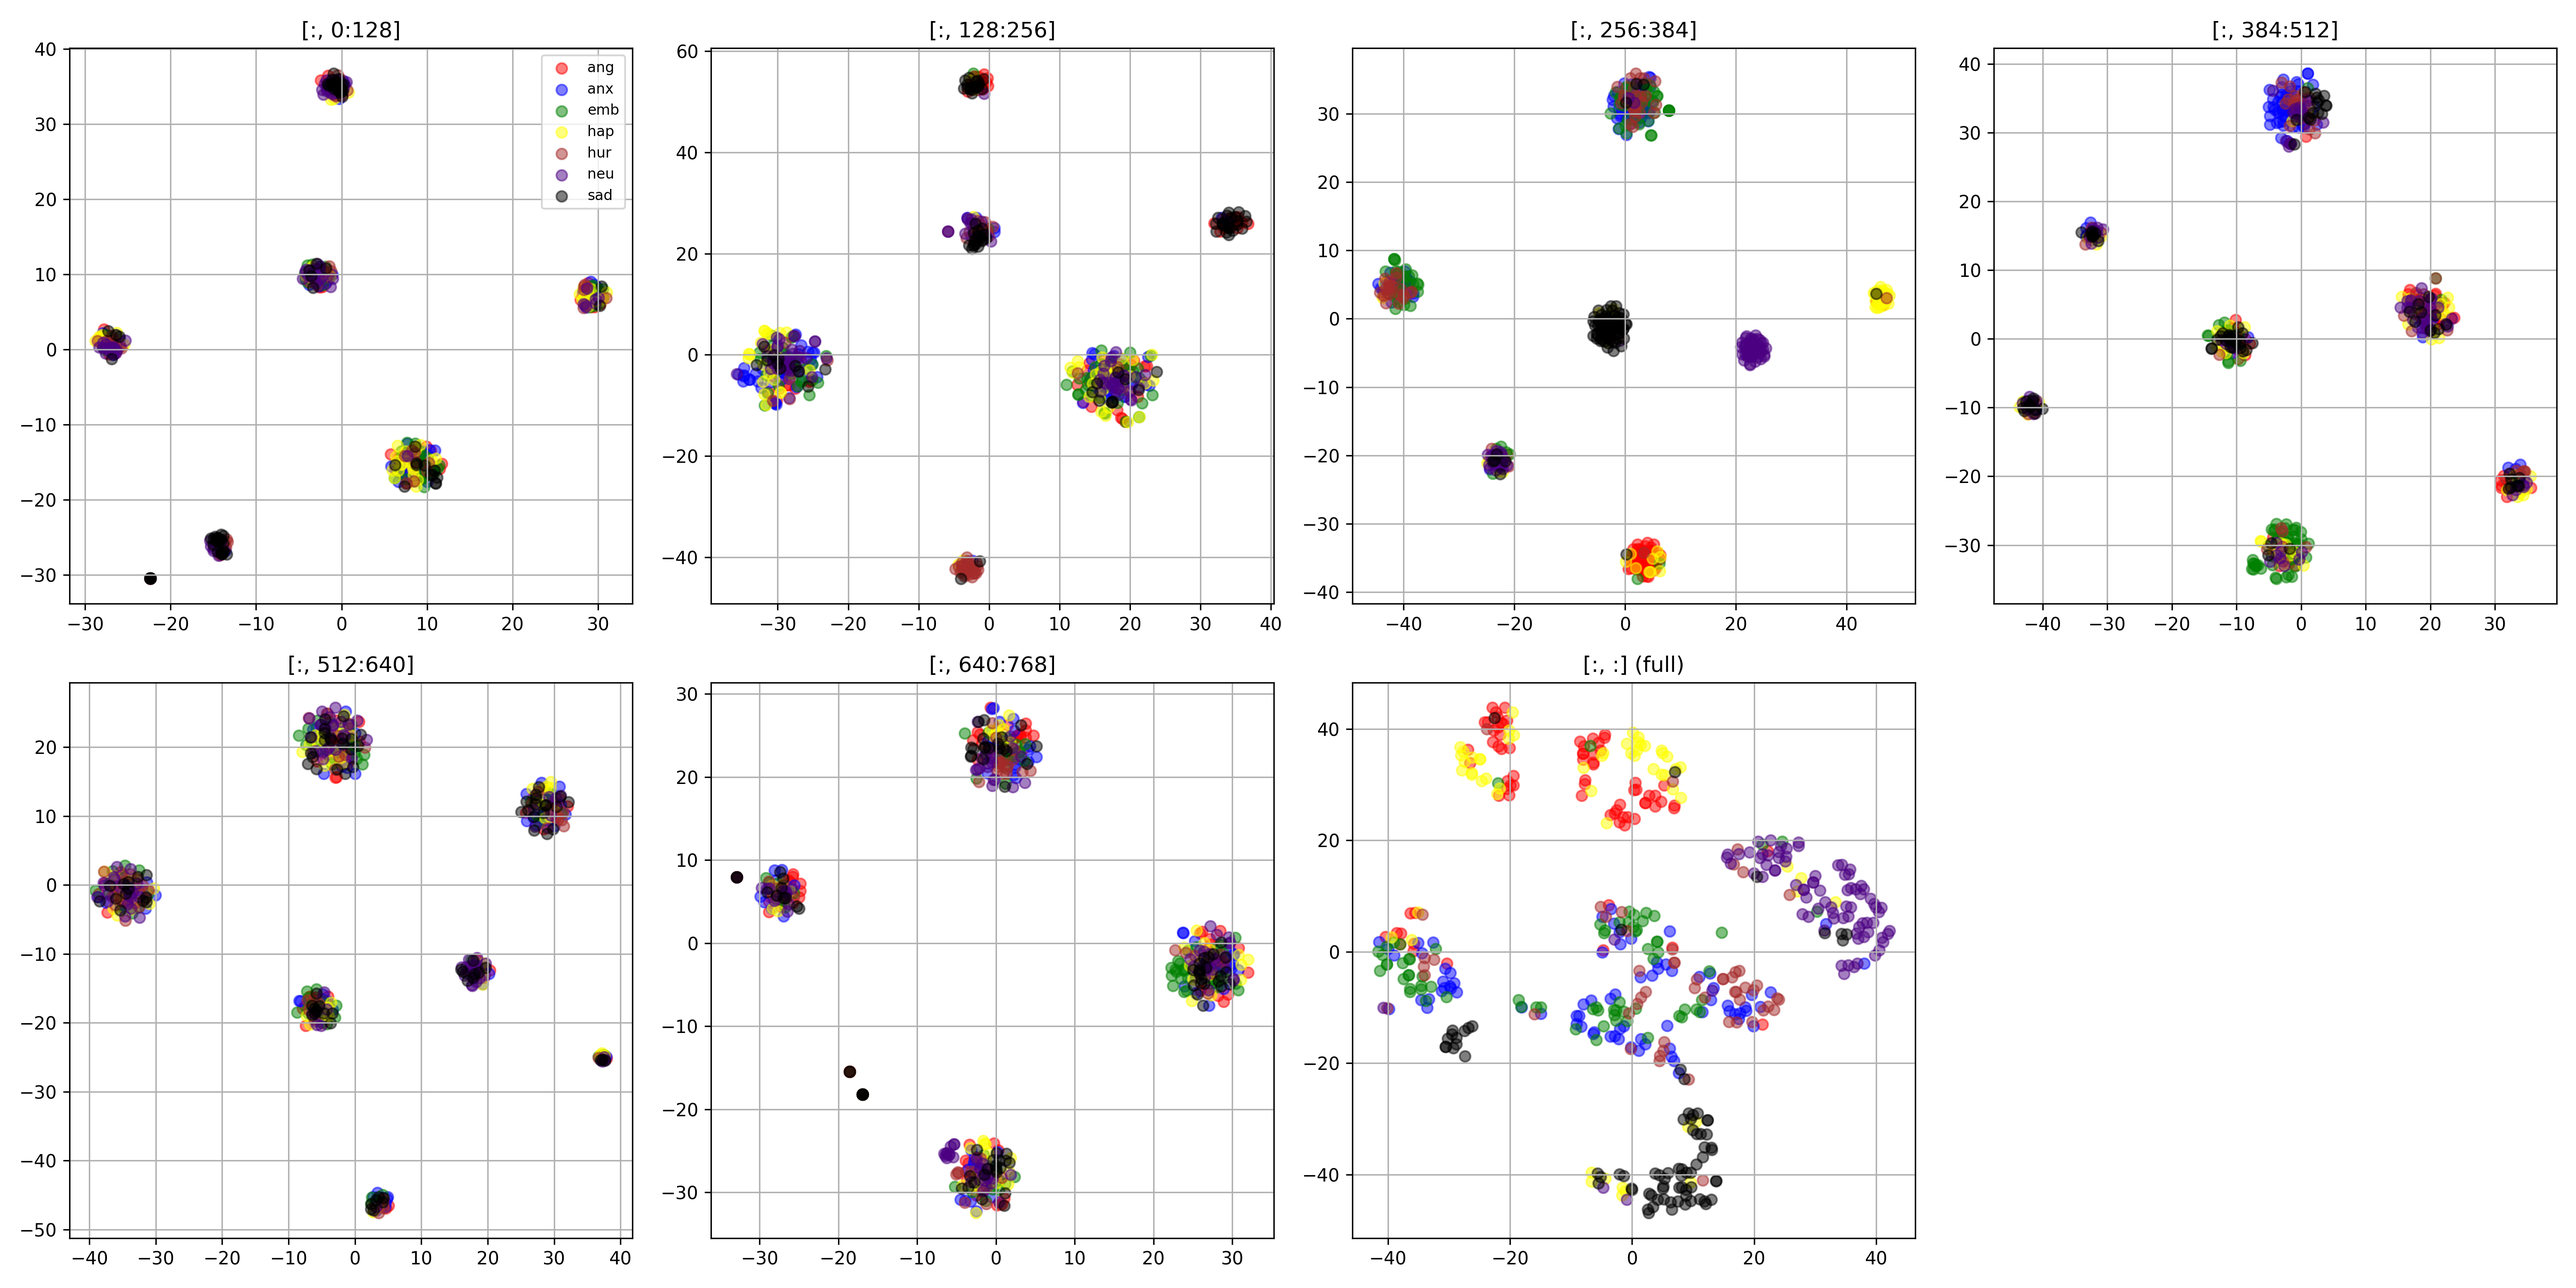
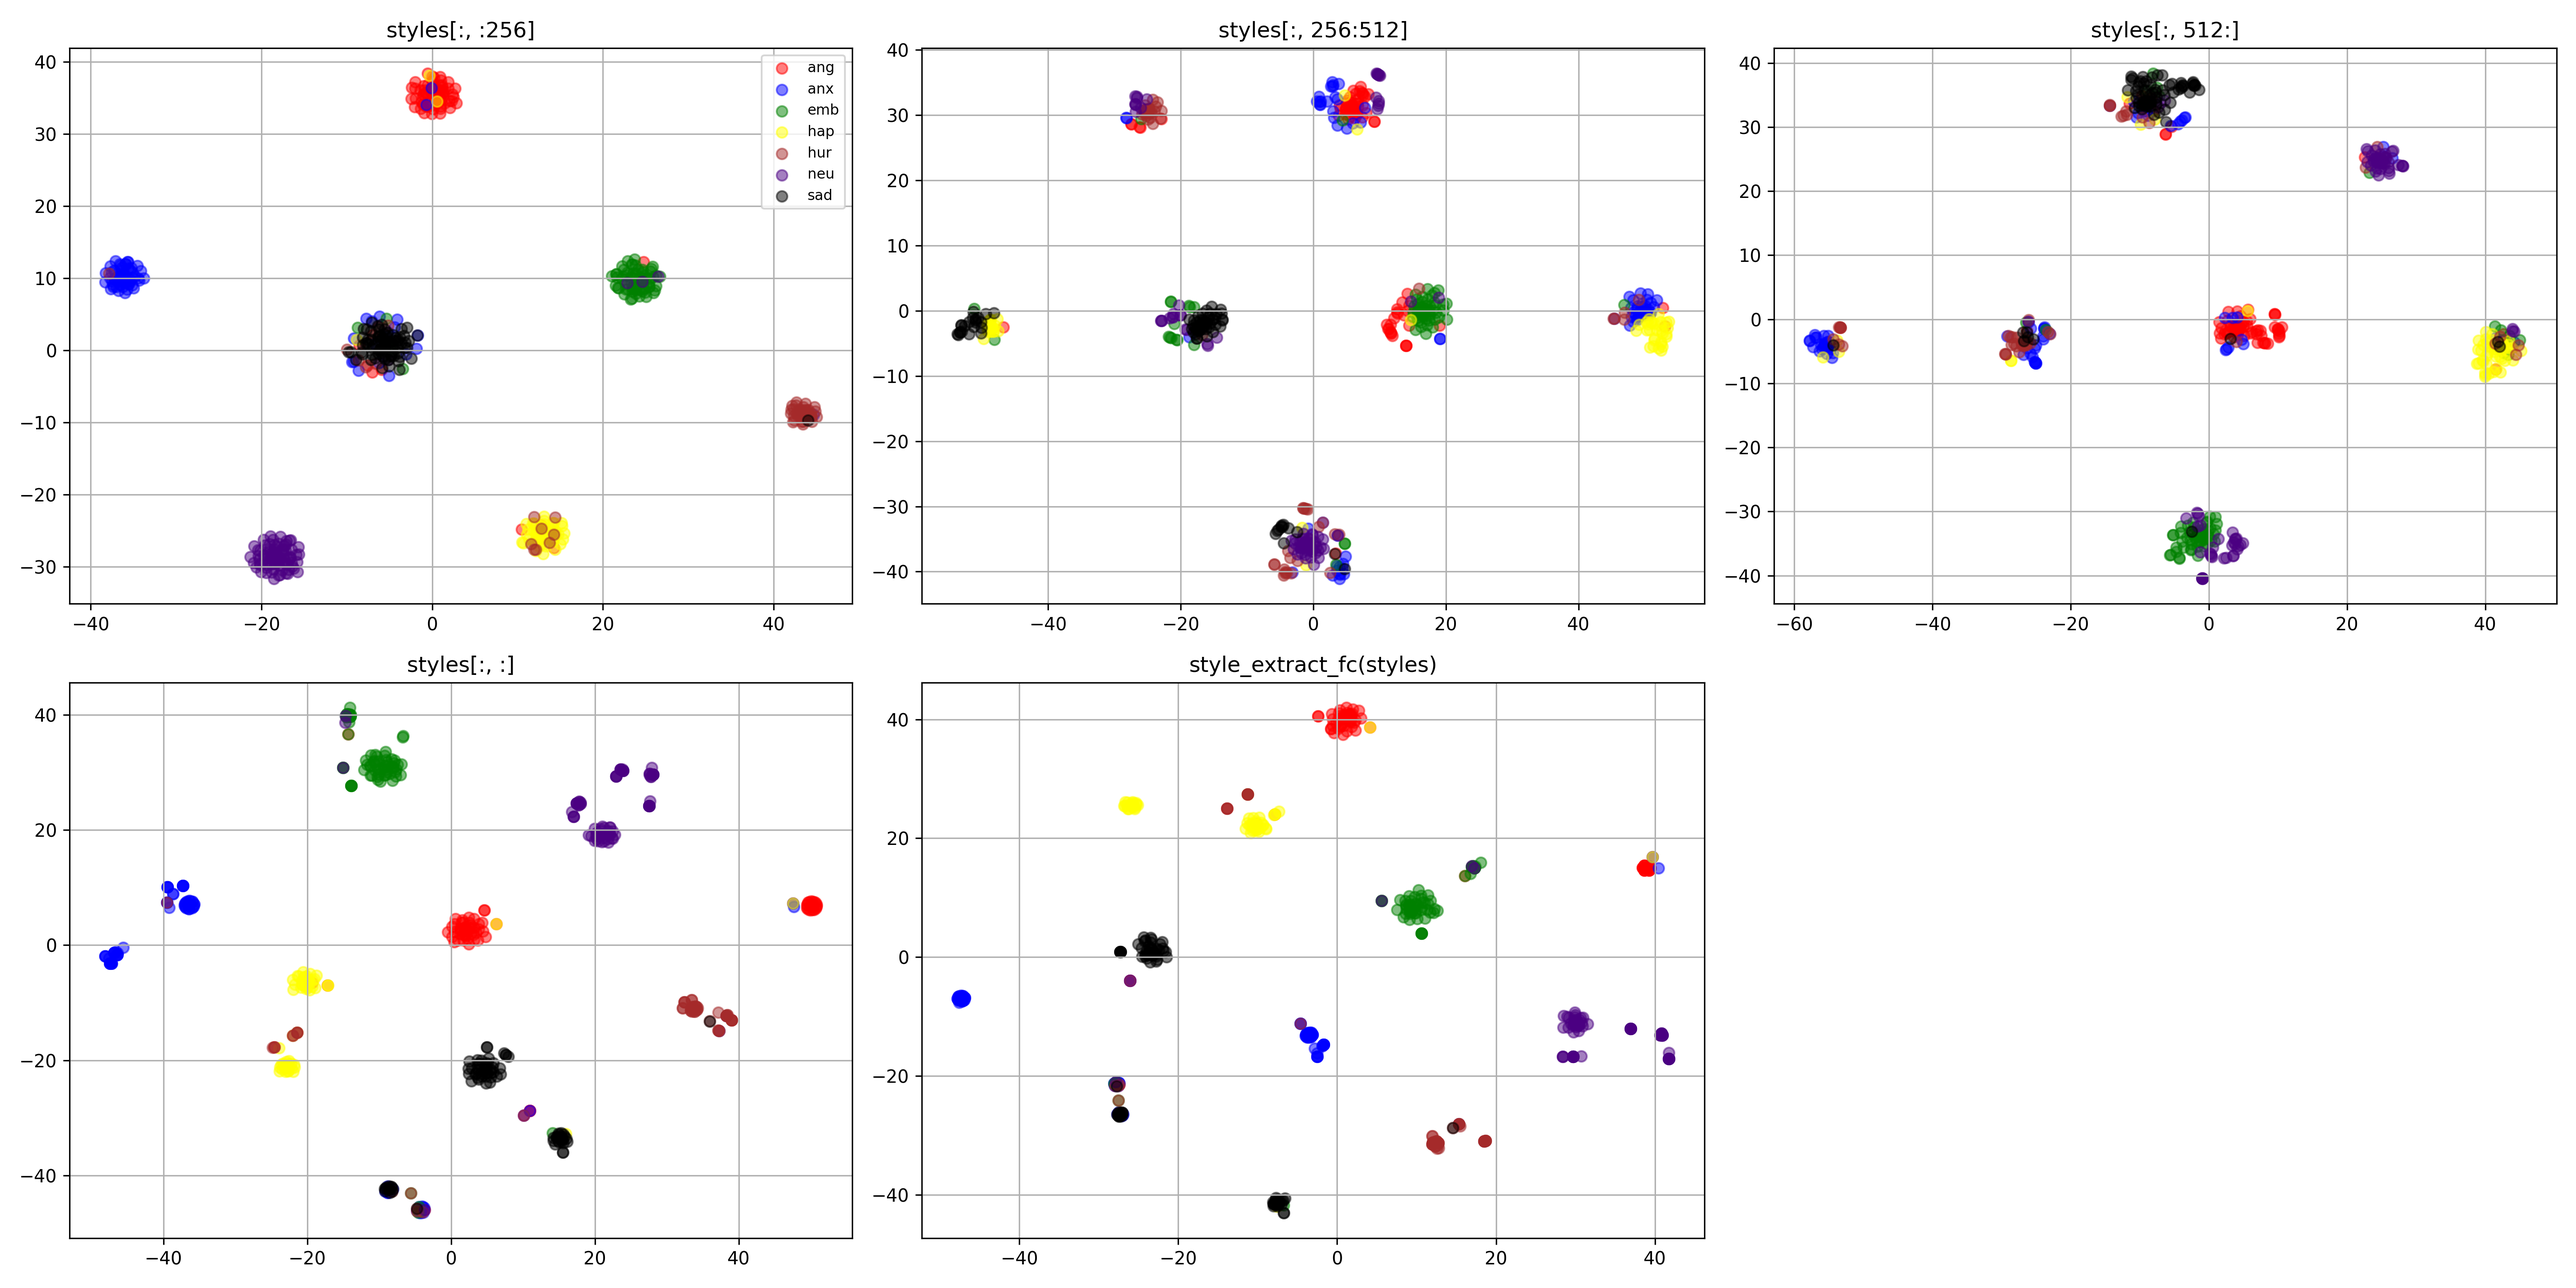
visualize and synthesize debug

diff --git a/visualize.py b/visualize.py
@@ -85,8 +85,8 @@ if __name__ == "__main__":
         energy_mel = torch.from_numpy(np.load(energy_path).T).to(device).unsqueeze(0)
 
         # style 추출
-        z_mel, z_pitch, z_energy, cls_loss = model.ref_enc(mel, emotion, pitch_mel, energy_mel)
-        style, _, _, codebooks = model.style_extractor(z_mel, z_pitch, z_energy, cls_loss)
+        ref_embs, cls_loss = model.ref_enc(mel, emotion) #, pitch_mel, energy_mel)
+        style, _, _, codebooks = model.style_extractor(ref_embs, cls_loss)
 
         styles.append(style.cpu().data[:, :])  # 전체 임베딩 (예: 768 차원 등)
 
@@ -101,15 +101,11 @@ if __name__ == "__main__":
     # 슬라이스 구간 (768차원 기준)
     # 6개 구간: 각각 128차원씩
     # 총 768 == 6 * 128
-    data_x_1 = styles[:, 0:128].numpy()
-    data_x_2 = styles[:, 128:256].numpy()
-    data_x_3 = styles[:, 256:384].numpy()
-    data_x_4 = styles[:, 384:512].numpy()
-    data_x_5 = styles[:, 512:640].numpy()
-    data_x_6 = styles[:, 640:768].numpy()
-    data_x_7 = styles[:, :].numpy()  # 전체
-
-    data_x_8 = model.style_extract_fc(styles)
+    data_x_1 = styles[:, 0:256].numpy()
+    data_x_2 = styles[:, 256:512].numpy()
+    data_x_3 = styles[:, 512:].numpy()
+    data_x_4 = styles[:, :].numpy()  # 전체
+    data_x_5 = model.style_extract_fc(styles).detach().numpy()
 
     def run_tsne(data, perplexity=20, n_iter=2000):
         if data.shape[1] == 0:
@@ -123,11 +119,10 @@ if __name__ == "__main__":
     tsne_3 = run_tsne(data_x_3)
     tsne_4 = run_tsne(data_x_4)
     tsne_5 = run_tsne(data_x_5)
-    tsne_6 = run_tsne(data_x_6)
-    tsne_7 = run_tsne(data_x_7)
+
 
     # 2x4 서브플롯 생성 (7개 쓰고, 1개는 비우는 형태)
-    fig, axes = plt.subplots(2, 4, figsize=(20, 10))
+    fig, axes = plt.subplots(2, 3, figsize=(20, 10))
 
     # Helper to scatter-plot
     def scatter_tsne(ax, tsne_data, data_y, title):
@@ -143,16 +138,14 @@ if __name__ == "__main__":
         ax.grid(True)
 
     # 각 subplot에 그리기
-    scatter_tsne(axes[0, 0], tsne_1, emotions, "[:, 0:128]")
-    scatter_tsne(axes[0, 1], tsne_2, emotions, "[:, 128:256]")
-    scatter_tsne(axes[0, 2], tsne_3, emotions, "[:, 256:384]")
-    scatter_tsne(axes[0, 3], tsne_4, emotions, "[:, 384:512]")
-    scatter_tsne(axes[1, 0], tsne_5, emotions, "[:, 512:640]")
-    scatter_tsne(axes[1, 1], tsne_6, emotions, "[:, 640:768]")
-    scatter_tsne(axes[1, 2], tsne_7, emotions, "[:, :] (full)")
+    scatter_tsne(axes[0, 0], tsne_1, emotions, "styles[:, :256]")
+    scatter_tsne(axes[0, 1], tsne_2, emotions, "styles[:, 256:512]")
+    scatter_tsne(axes[0, 2], tsne_3, emotions, "styles[:, 512:]")
+    scatter_tsne(axes[1, 0], tsne_4, emotions, "styles[:, :]")
+    scatter_tsne(axes[1, 1], tsne_5, emotions, "style_extract_fc(styles)")
 
     # 마지막 subplot은 비어있음
-    axes[1, 3].set_visible(False)
+    axes[1, 2].set_visible(False)
 
     # 범례: 첫 번째 subplot에만 예시로 추가(필요 시 다른 방식으로 조정 가능)
     axes[0, 0].legend(loc='best', fontsize=8)

diff --git a/utils/tools.py b/utils/tools.py
@@ -264,6 +264,7 @@ def synth_samples(targets, predictions, vocoder, model_config, preprocess_config
         guided_loss,
         vq_loss,
         _, 
+        _,
     ) = predictions
 
     for i in range(len(predictions[0])):
